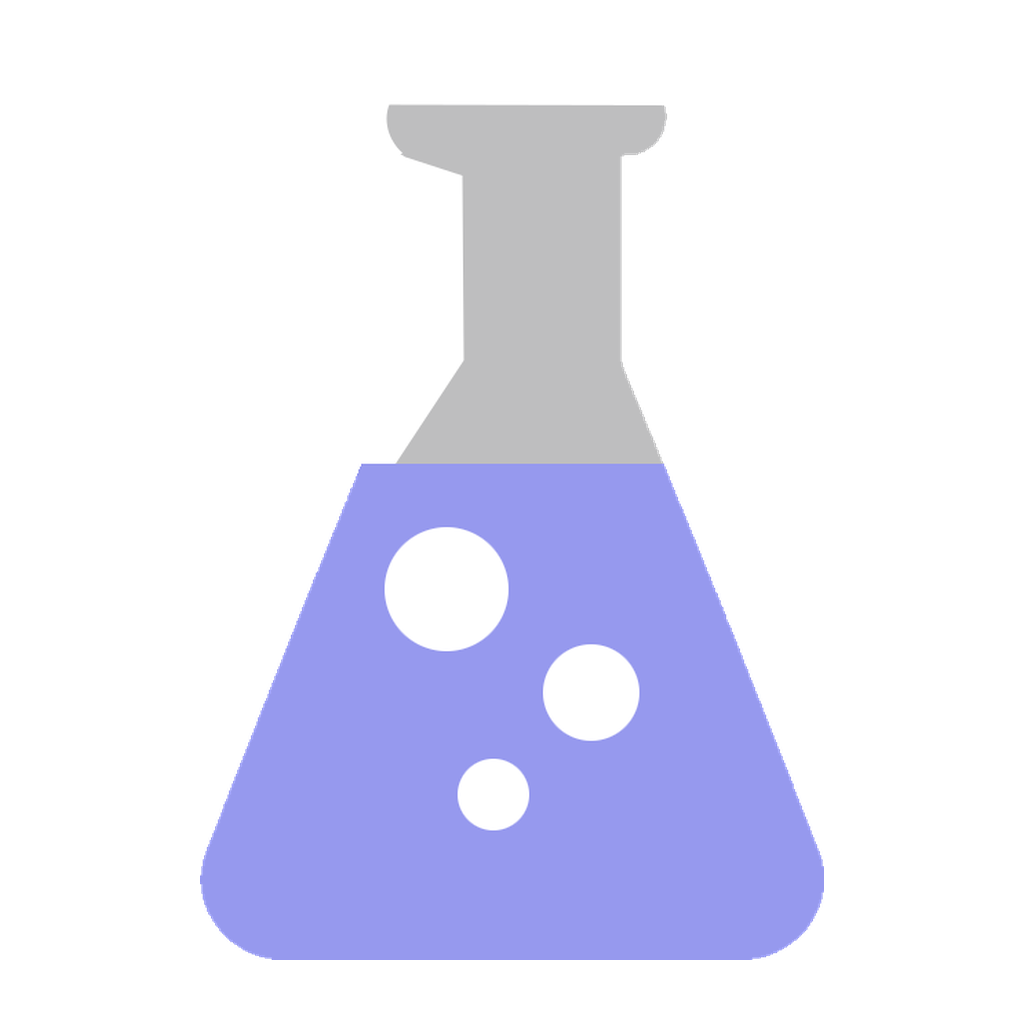
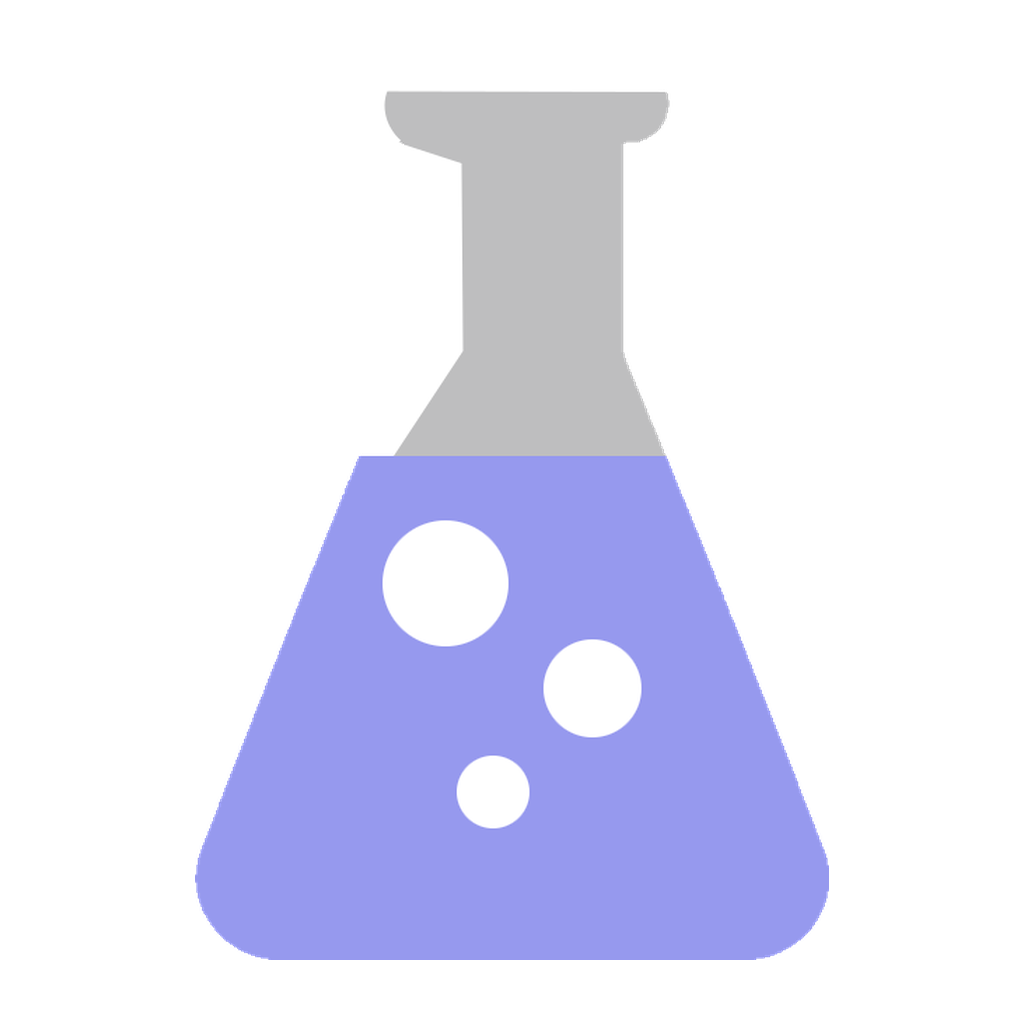
Update iconography by codex

diff --git a/Art/Codex/Iconography/build_library.py b/Art/Codex/Iconography/build_library.py
@@ -132,7 +132,7 @@ native('01_Modifiers','sound-waves-single','Echolocation',[3],transform=lambda i
 native('01_Modifiers','motion-lines','Giant',[4])
 native('01_Modifiers','anger-mark','Rage',[5])
 vanilla('01_Modifiers','aggression-burst','Aggressive','white')
-vanilla('01_Modifiers','medical-cross','WoundHealingRateFast','white',lambda im:select_color(im,(151,203,221),(85,140,165)),note='Isolated light-blue medical cross, whitened.')
+native('01_Modifiers','medical-cross','EmergencyReserves_firsttry',[8],note='Clean standalone medical cross layer, whitened; replaces the low-resolution color selection.')
 
 # Body shapes and anatomical building blocks, without feature overlays.
 native('02_Anatomy','head-round','Head_Trog',[2])
@@ -182,11 +182,12 @@ native('04_Symbols','moon','Nocturnal',[2])
 native('04_Symbols','cloud','Nocturnal',[4])
 vanilla('04_Symbols','sleep-z','Sleepy','white',lambda im:select_color(im,(136,136,91),tolerance=2))
 vanilla('04_Symbols','sleep-zz','Sleepy')
+vanilla('04_Symbols','sleep-zzz','VerySleepy')
 vanilla('04_Symbols','radiation','PartialToxicityResistance','white',lambda im:select_color(im,(136,136,91),tolerance=2))
 vanilla('04_Symbols','sun-uv','IntenseUVSensitivity')
 
 # Objects with their internal colors retained.
-native('05_Objects','flask','DrugResistant',[2,3,4,5],'original')
+native('05_Objects','flask','DrugResistant',[2,3,4,5],'original',note='Highlight, fluid and bubbles clipped to the base flask silhouette.',transform=lambda im:clip_to_alpha(im,layer('DrugResistant',2)))
 native('05_Objects','flask-silhouette','DrugResistant',[2])
 native('05_Objects','bubbles','DrugResistant',[5])
 native('05_Objects','paintbrush','Melancholy',[5])

diff --git a/Art/Codex/Iconography/README.md b/Art/Codex/Iconography/README.md
@@ -1,6 +1,6 @@
 # Gene icon components
 
-71 transparent PNG components for composing RimWorld gene icons in a paint program.
+72 transparent PNG components for composing RimWorld gene icons in a paint program.
 
 - Every component is on a 1024 x 1024 RGBA canvas, with its visible bounds centered and its longest dimension fitted to 896 px (64 px minimum margin).
 - Single-color components are pure white. Tint them after importing. Components with internal shading or multiple colors retain those colors, including grayscale shading.
@@ -19,7 +19,7 @@
 
 ## Sources and fidelity
 
-The library was selected by inspecting all 49 gene icons in `XylXenos/Textures/Xyl/UI/Icons/Genes` and all 45 `Gene_*.png` icons in `Art/Rimworld art`. Corresponding layered GIMP artwork in `Art` supplied most exports. Hidden reference, outline and unused experiment layers were excluded.
+The library was selected by inspecting all 49 gene icons in `XylXenos/Textures/Xyl/UI/Icons/Genes` and all 45 `Gene_*.png` icons in `Art/Rimworld art`. Corresponding layered GIMP artwork in `Art` supplied most exports. Hidden reference, outline and unused experiment layers were excluded, except for the clean standalone medical cross recovered from the emergency-reserves draft.
 
 `sources.json` identifies the source file and GIMP layer names/indices for each component, its cropped source resolution, color treatment and any reconstruction. Most shapes were exported directly from existing layers. The vanilla-only PNGs are 128 x 128; their exports are enlarged for consistent canvas size and do not gain new detail. At small icon sizes this is usually inconsequential, but prefer the native-layer components when enlarging a composition.
 
